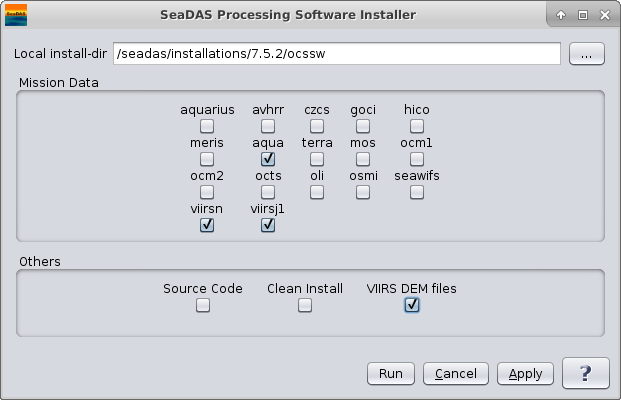
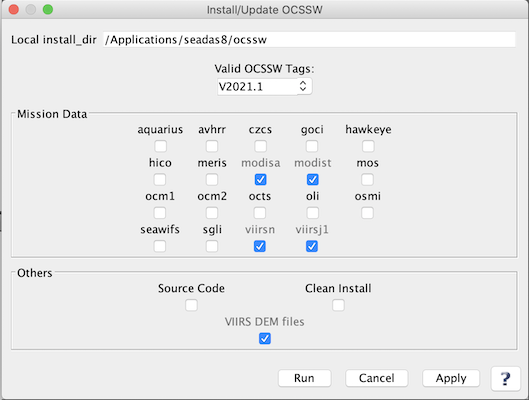
Modified install_ocssw help page

Changed region(s): [[0.0, 0.0, 1.0, 1.0]]

diff --git a/seadas-processing/src/main/resources/gov/nasa/gsfc/seadas/processing/docs/processors/InstallOCSSW.html b/seadas-processing/src/main/resources/gov/nasa/gsfc/seadas/processing/docs/processors/InstallOCSSW.html
@@ -113,6 +113,13 @@
         <td>false</td>
     </tr>
     <tr>
+        <td><b>hawkeye</b></td>
+        <td> boolean</td>
+        <td>install HAWKEYE files</td>
+        <td>Optional</td>
+        <td>false</td>
+    </tr>
+    <tr>
         <td><b>hico</b></td>
         <td> boolean</td>
         <td>install HICO files</td>
@@ -179,6 +186,13 @@
         <td><b>seawifs</b></td>
         <td> boolean</td>
         <td>install SeaWiFS files</td>
+        <td>Optional</td>
+        <td>false</td>
+    </tr>
+    <tr>
+        <td><b>sgli</b></td>
+        <td> boolean</td>
+        <td>install SGLI files</td>
         <td>Optional</td>
         <td>false</td>
     </tr>
